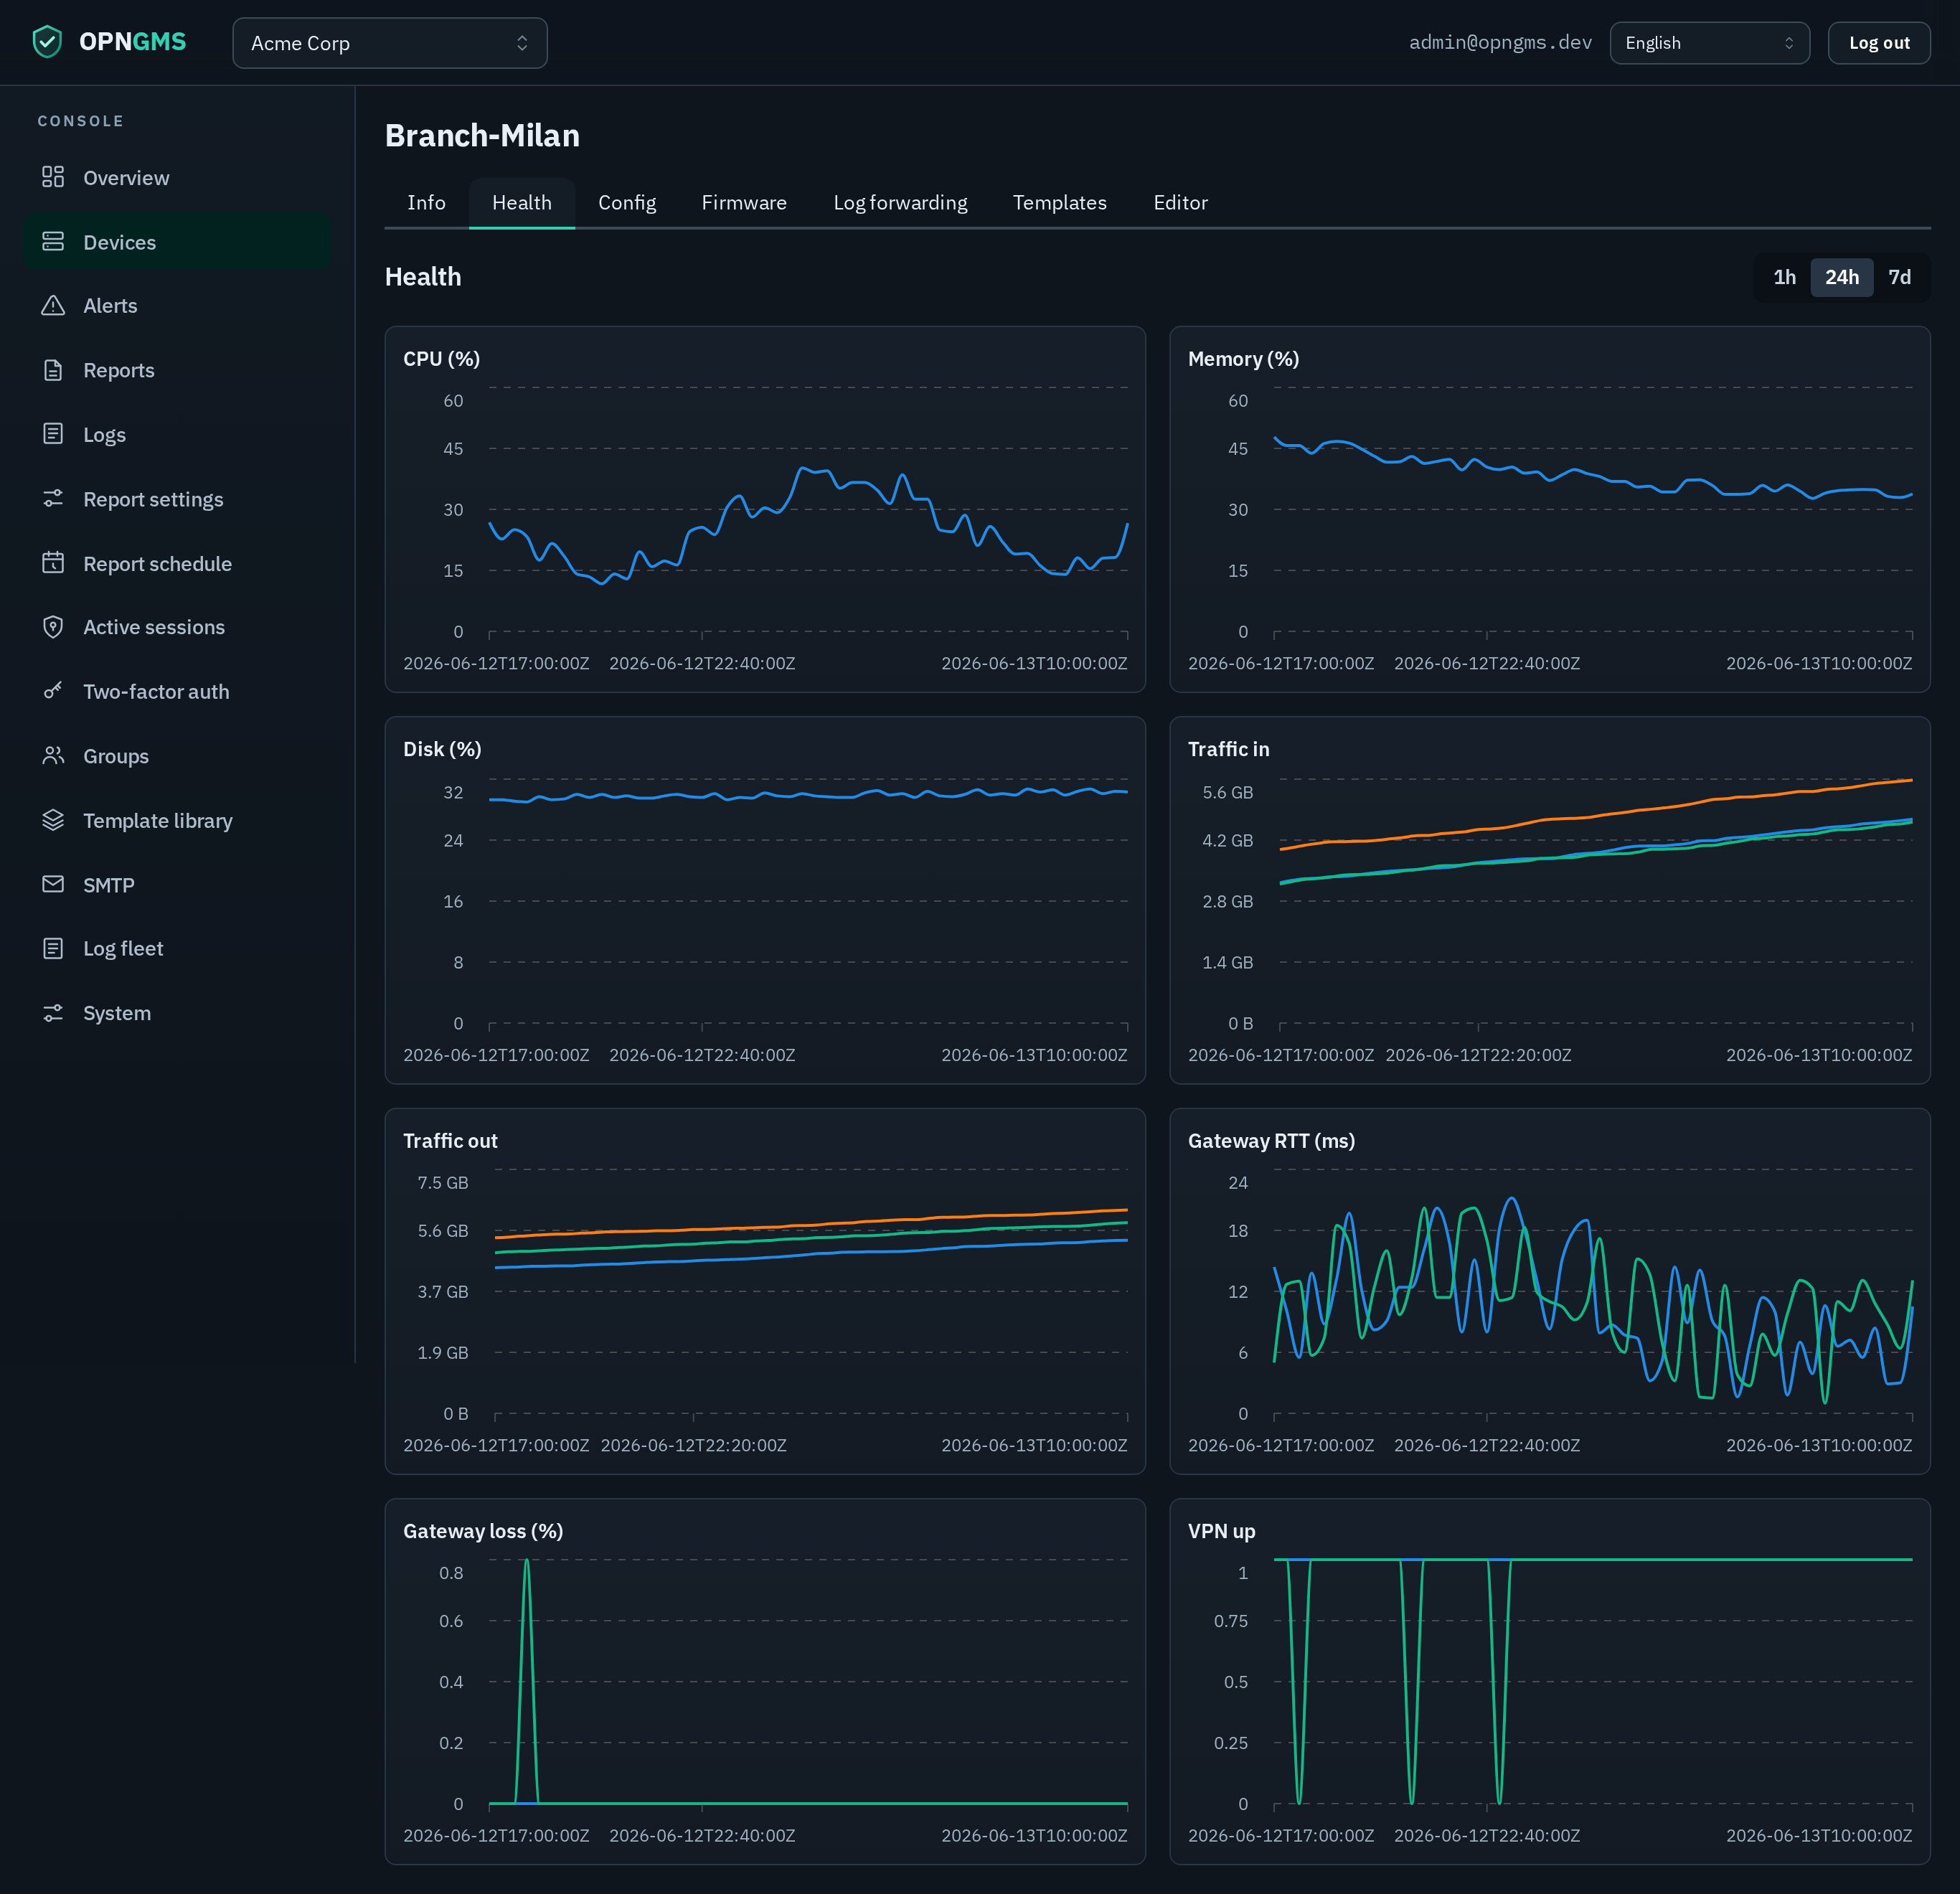
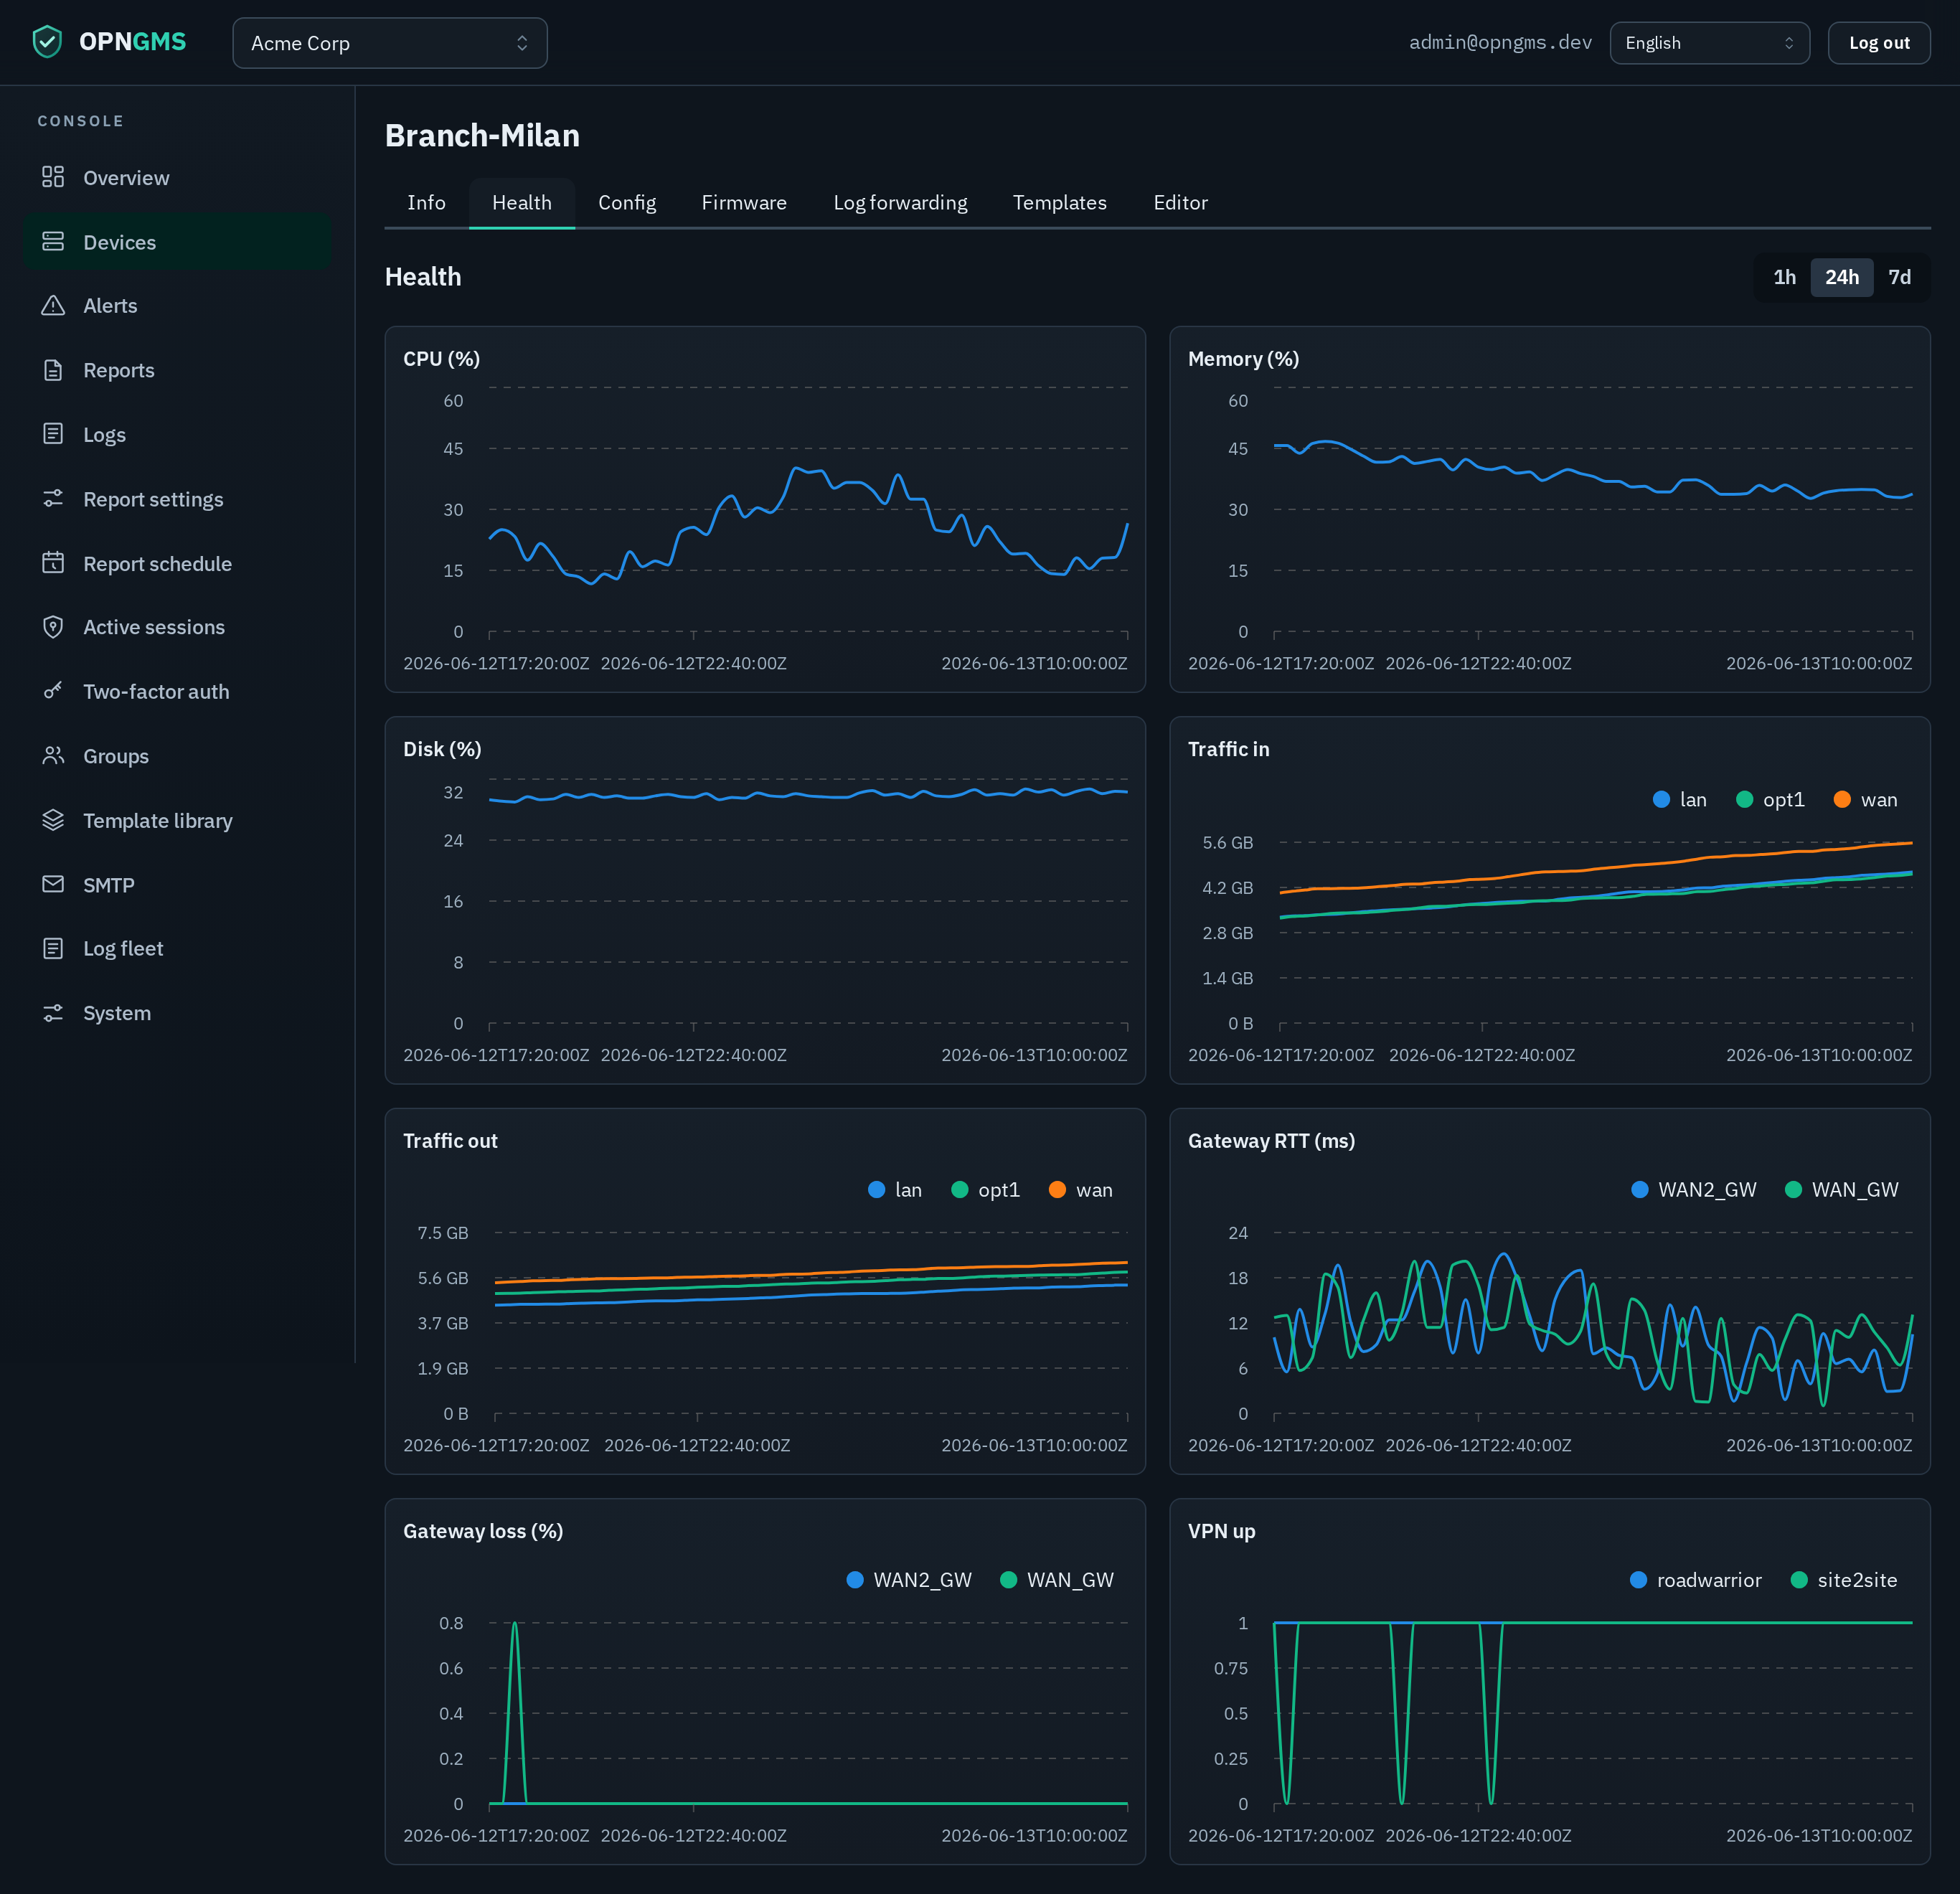
fix(ui): legend on multi-line device-health charts
The Traffic in/out, Gateway RTT/loss and VPN charts draw one line per interface/
gateway/tunnel but had no legend, so the lines were unidentifiable. Enable the
Mantine LineChart legend whenever there is more than one series (single 'value'
series — cpu/mem/disk — still omit it; the title already names them). Refreshed
device-health.png to show the legends (+ the dynamic byte units).

diff --git a/frontend/src/monitoring/MetricChart.tsx b/frontend/src/monitoring/MetricChart.tsx
@@ -63,6 +63,9 @@ export function MetricChart({
           curveType="monotone"
           withDots={false}
           tickLine="x"
+          // Multi-line charts (per interface / gateway / VPN tunnel) need a legend to tell the
+          // lines apart; a single 'value' series doesn't (the title already names it).
+          withLegend={series.length > 1}
           valueFormatter={valueFormatter}
           yAxisProps={valueFormatter ? { tickFormatter: valueFormatter, width: 64 } : undefined}
         />